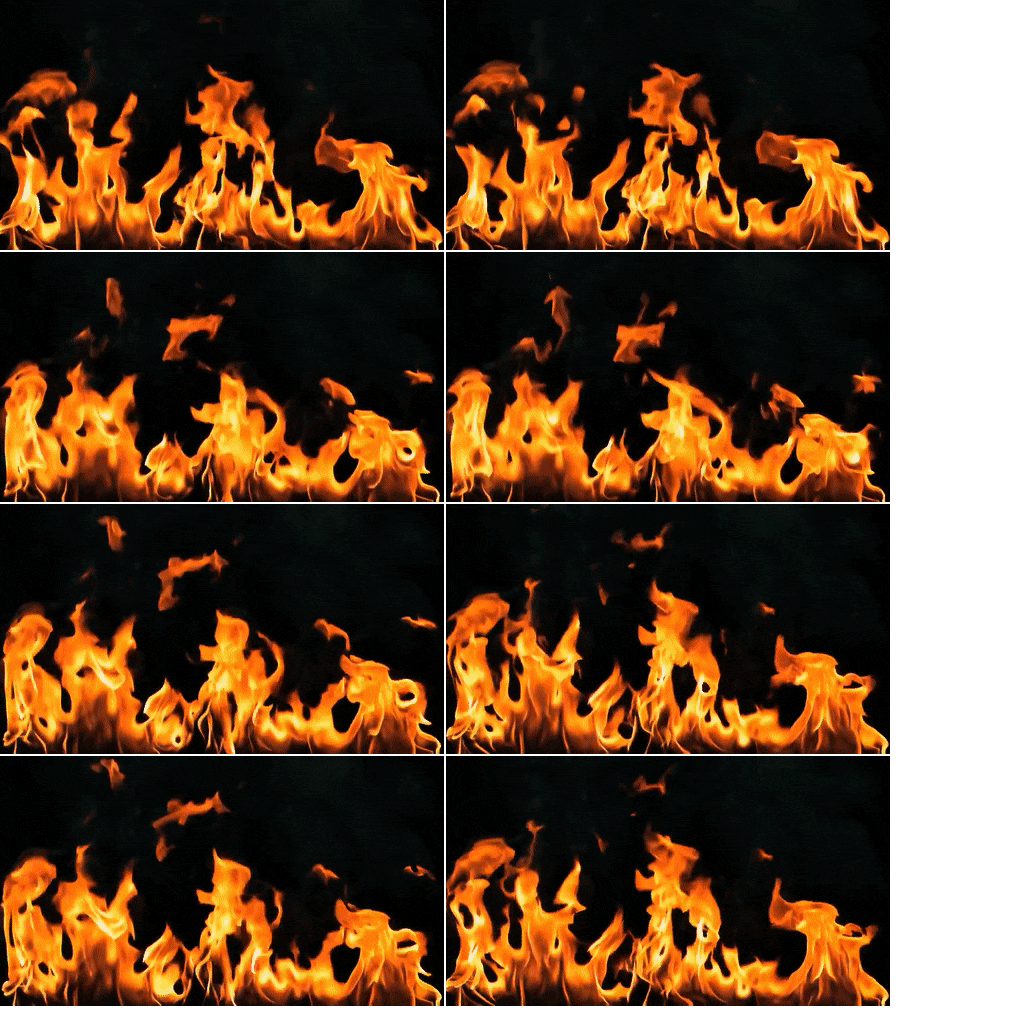
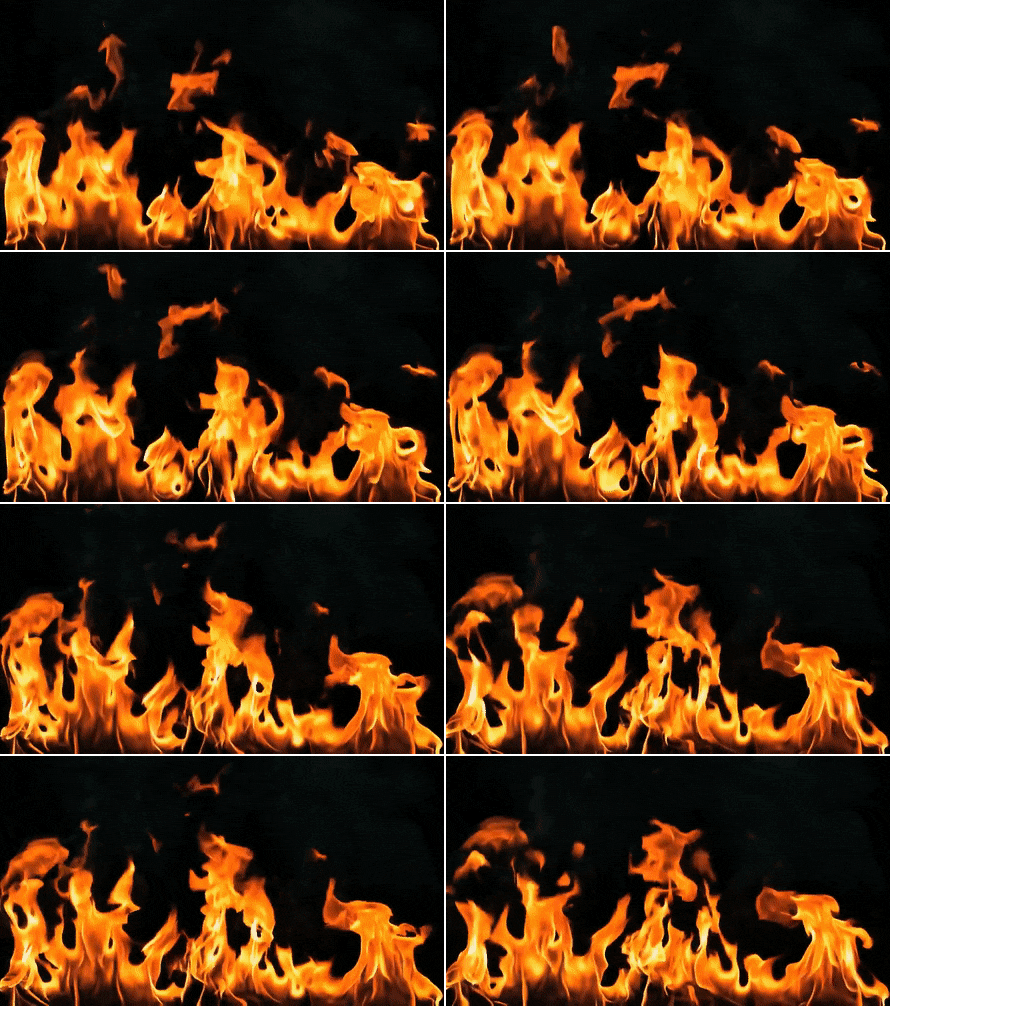
Update

diff --git a/HelloWorld.js b/HelloWorld.js
@@ -3,7 +3,7 @@
 var p; // shortcut to reference prototypes
 var lib={};var ss={};var img={};
 lib.ssMetadata = [
-		{name:"HelloWorld_atlas_", frames: [[446,252,444,250],[0,252,444,250],[0,504,444,250],[0,756,444,250],[446,504,444,250],[446,756,444,250],[0,0,444,250],[446,0,444,250]]}
+		{name:"HelloWorld_atlas_", frames: [[0,0,444,250],[446,0,444,250],[0,252,444,250],[446,252,444,250],[0,504,444,250],[0,756,444,250],[446,504,444,250],[446,756,444,250]]}
 ];
 
 
@@ -303,6 +303,8 @@ p.nominalBounds = null;
 	// timeline functions:
 	this.frame_0 = function() {
 		createjs.Touch.enable(stage);
+		document.body.style.backgroundColor = "#FFFFFF";
+		
 		this.stop();
 		this.omc.addEventListener("mousedown", onMouseDown.bind(this));
 		this.omc.addEventListener("tick", onMouseMove.bind(this));
@@ -311,10 +313,12 @@ p.nominalBounds = null;
 		this.omc.inity = this.omc.y;
 		var hideHint = false;
 		var maxDist = 150;
+		root = this;
+		
 		function onMouseDown(evt) {
 			var item = this.omc;
-			if(!hideHint){
-				this.hintmc.addEventListener("tick", enterFrameFunc.bind(this));
+			if (!hideHint) {
+				this.hintmc.addEventListener("tick", enterFrameFunc);
 				hideHint = true;
 				this.hintmc.alpha = 1;
 			}
@@ -338,10 +342,8 @@ p.nominalBounds = null;
 				item.alpha = (maxDist - dist) / maxDist;
 				if (item.alpha <= 0) {
 					item.drag = false;
-					this.omc.removeEventListener("mousedown", onMouseDown.bind(this));
-					this.omc.removeEventListener("tick", onMouseMove.bind(this));
-					this.omc.removeEventListener("pressup", onMouseUp.bind(this));
-					stage.play();
+					this.play();
+					this.addEventListener("tick", toBlack);
 				}
 		
 			}
@@ -358,10 +360,22 @@ p.nominalBounds = null;
 			return Math.sqrt((ax - bx) * (ax - bx) + (ay - by) * (ay - by));
 		}
 		
-		function enterFrameFunc(){
-			this.hintmc.alpha -= 0.04;
-			if(this.hintmc.alpha <= 0){
-				this.hintmc.removeEventListener("tick", enterFrameFunc.bind(this));
+		function enterFrameFunc() {
+			root.hintmc.alpha -= 0.04;
+			if (root.hintmc.alpha <= 0) {
+				root.hintmc.removeEventListener("tick", enterFrameFunc);
+			}
+		}
+		
+		function toBlack() {
+			if (root.cr) {
+				var temp = Math.round(255 - root.cr.alpha * 255);
+				var str = temp >= 16 ? "" + temp.toString(16) : "0" + temp.toString(16);
+				//console.log(str)
+				document.body.style.backgroundColor = "#" + str + str + str;
+				if (temp <= 0) {
+					root.removeEventListener("tick", toBlack);
+				}
 			}
 		}
 	}
@@ -419,13 +433,14 @@ p.nominalBounds = null;
 	this.timeline.addTween(cjs.Tween.get(this.instance_2).wait(1).to({_off:false},0).to({alpha:0.641},58).wait(1));
 
 	// 图层_2
-	this.instance_3 = new lib.元件2();
-	this.instance_3.parent = this;
-	this.instance_3.setTransform(-96.5,646.4,2.4,2.4,0,0,0,15.1,15.1);
-	this.instance_3.alpha = 0;
-	this.instance_3._off = true;
+	this.cr = new lib.元件2();
+	this.cr.name = "cr";
+	this.cr.parent = this;
+	this.cr.setTransform(-96.5,646.4,2.4,2.4,0,0,0,15.1,15.1);
+	this.cr.alpha = 0;
+	this.cr._off = true;
 
-	this.timeline.addTween(cjs.Tween.get(this.instance_3).wait(1).to({_off:false},0).to({y:36.3,alpha:1},58,cjs.Ease.quartInOut).wait(1));
+	this.timeline.addTween(cjs.Tween.get(this.cr).wait(1).to({_off:false},0).to({y:36.3,alpha:1},58,cjs.Ease.quartInOut).wait(1));
 
 }).prototype = p = new cjs.MovieClip();
 p.nominalBounds = new cjs.Rectangle(680.5,550.3,239.7,65.5);
@@ -438,7 +453,7 @@ lib.properties = {
 	color: "#FFFFFF",
 	opacity: 1.00,
 	manifest: [
-		{src:"images/HelloWorld_atlas_.png?1568120400486", id:"HelloWorld_atlas_"}
+		{src:"images/HelloWorld_atlas_.png?1569688134502", id:"HelloWorld_atlas_"}
 	],
 	preloads: []
 };

diff --git a/index.html b/index.html
@@ -10,23 +10,19 @@
 <html>
 <head>
 <meta charset="UTF-8">
-<meta name="viewport" content="height=device-height, initial-scale=1.0">
 <meta name="authoring-tool" content="Adobe_Animate_CC">
 <title>HelloWorld</title>
 <!-- write your code here -->
 <style>
-  body {
-	overflow:hidden;
-  }
   #animation_container {
 	position:absolute;
 	margin:auto;
-	left:-100%;right:-100%;
-	top:-100%;bottom:-100%;
+	left:0;right:0;
+	top:0;bottom:0;
   }
 </style>
 <script src="https://code.createjs.com/createjs-2015.11.26.min.js"></script>
-<script src="HelloWorld.js?1568120400511"></script>
+<script src="HelloWorld.js?1569688134528"></script>
 <script>
 var canvas, stage, exportRoot, anim_container, dom_overlay_container, fnStartAnimation;
 function init() {
@@ -98,7 +94,7 @@ function handleComplete(evt,comp) {
 			stage.tickOnUpdate = true;		
 		}
 	}
-	makeResponsive(true,'both',true,2);	
+	makeResponsive(true,'width',true,1);	
 	AdobeAn.compositionLoaded(lib.properties.id);
 	fnStartAnimation();
 }
